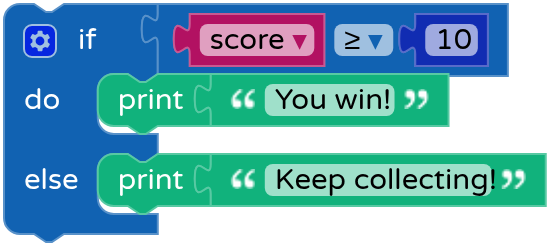
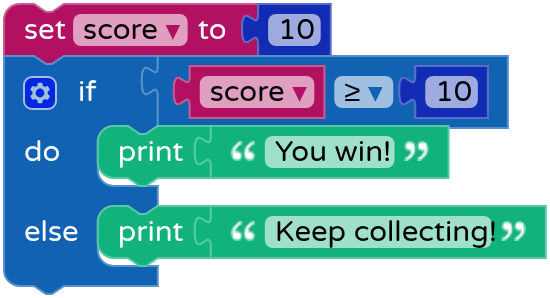
Add loops lesson

diff --git a/site/lessons/if-else.html b/site/lessons/if-else.html
@@ -7,7 +7,7 @@
 <main class="wrap"><p><a href="../index.html">All lessons and Godot setup</a></p>
 <h1>If and else</h1><p>Show a win message when the player reaches ten points.</p>
 <div class="comparison">
-<figure class="panel"><h3>Blockly</h3><img src="../assets/if-else.png" alt="Blockly checks if score is at least ten, then prints a win message or a prompt to keep collecting."></figure>
+<figure class="panel"><h3>Blockly</h3><img src="../assets/if-else.png" alt="Blockly sets score to ten and checks if it is at least ten, then prints a win message or a prompt to keep collecting."></figure>
 <section class="panel"><h3>GDScript</h3><pre><code>var score = 10
 if score &gt;= 10:
     print(&quot;You win!&quot;)
@@ -16,6 +16,6 @@ else:
 </div>
 <p>The Blockly test becomes the expression after <code>if</code>. A colon starts each branch, and indentation puts a statement inside it. The <code>else</code> branch runs when the test is false.</p>
 <h2>Try it in Godot</h2><p>Run the scene with scores of <code>9</code>, <code>10</code>, and <code>11</code>. Then change <code>&gt;=</code> to <code>&gt;</code> and predict which result changes.</p>
-<details><summary>Check your result</summary><p>With <code>&gt;=</code>, the player wins at 10 and 11. With <code>&gt;</code>, only 11 wins. Testing 10 catches the difference between the two rules.</p></details></main>
+<details><summary>Check your result</summary><p>With <code>&gt;=</code>, the player wins at 10 and 11. With <code>&gt;</code>, only 11 wins. Testing 10 catches the difference between the two rules.</p></details><p><a href="loops.html">Next lesson · Repeat loops</a></p></main>
 <footer><div class="wrap"><a href="https://mr-douglas.github.io/blockly/">Open the Blockly editor</a></div></footer>
 </body></html>

diff --git a/site/lessons/loops.html b/site/lessons/loops.html
@@ -1,0 +1,18 @@
+<!doctype html>
+<html lang="en">
+<head><meta charset="utf-8"><meta name="viewport" content="width=device-width, initial-scale=1">
+<title>Repeat loops | Blockly to GDScript</title><link rel="stylesheet" href="../assets/course.css"></head>
+<body>
+<header><div class="wrap"><a href="../index.html">Blockly to GDScript</a></div></header>
+<main class="wrap"><p><a href="../index.html">All lessons and Godot setup</a></p>
+<h1>Repeat loops</h1><p>Repeat an action a fixed number of times.</p>
+<div class="comparison">
+<figure class="panel"><h3>Blockly</h3><img src="../assets/loops.png" alt="Blockly repeats the print block three times."></figure>
+<section class="panel"><h3>GDScript</h3><pre><code>for i in range(3):
+    print(&quot;Spawn a coin!&quot;)</code></pre></section>
+</div>
+<p>The Blockly repeat count goes inside <code>range()</code>. The indented body runs once per value. Here, <code>i</code> takes the values <code>0</code>, <code>1</code>, and <code>2</code>.</p>
+<h2>Try it in Godot</h2><p>Change the count to five. Replace the print line with <code>print("Coin ", i + 1)</code> to number each coin in the Output panel.</p>
+<details><summary>Check your result</summary><p>The labels should go from <code>Coin 1</code> through <code>Coin 5</code>. This exercise prints spawn messages. Later, the loop body could instantiate actual coin scenes.</p></details></main>
+<footer><div class="wrap"><a href="https://mr-douglas.github.io/blockly/">Open the Blockly editor</a></div></footer>
+</body></html>

diff --git a/site/index.html b/site/index.html
@@ -6,7 +6,7 @@
 <header><div class="wrap"><a href="index.html">Blockly to GDScript</a></div></header>
 <main class="wrap"><h1>Blockly to GDScript</h1>
 <p>Use blocks you already know to write your first Godot scripts. Work through the lessons to prototype the rules of a coin-collecting game.</p>
-<ol class="lesson-list"><li><a href="lessons/variables.html"><strong>Variables</strong></a><p>Store and display the player’s score.</p></li><li><a href="lessons/if-else.html"><strong>If and else</strong></a><p>Show a win message when the player reaches ten points.</p></li></ol>
+<ol class="lesson-list"><li><a href="lessons/variables.html"><strong>Variables</strong></a><p>Store and display the player’s score.</p></li><li><a href="lessons/if-else.html"><strong>If and else</strong></a><p>Show a win message when the player reaches ten points.</p></li><li><a href="lessons/loops.html"><strong>Repeat loops</strong></a><p>Repeat an action a fixed number of times.</p></li></ol>
 <h2>Get ready in Godot 4</h2>
 <ol>
 <li>Create a project. Add a plain <strong>Node</strong> as the root of a new scene and save it.</li>
